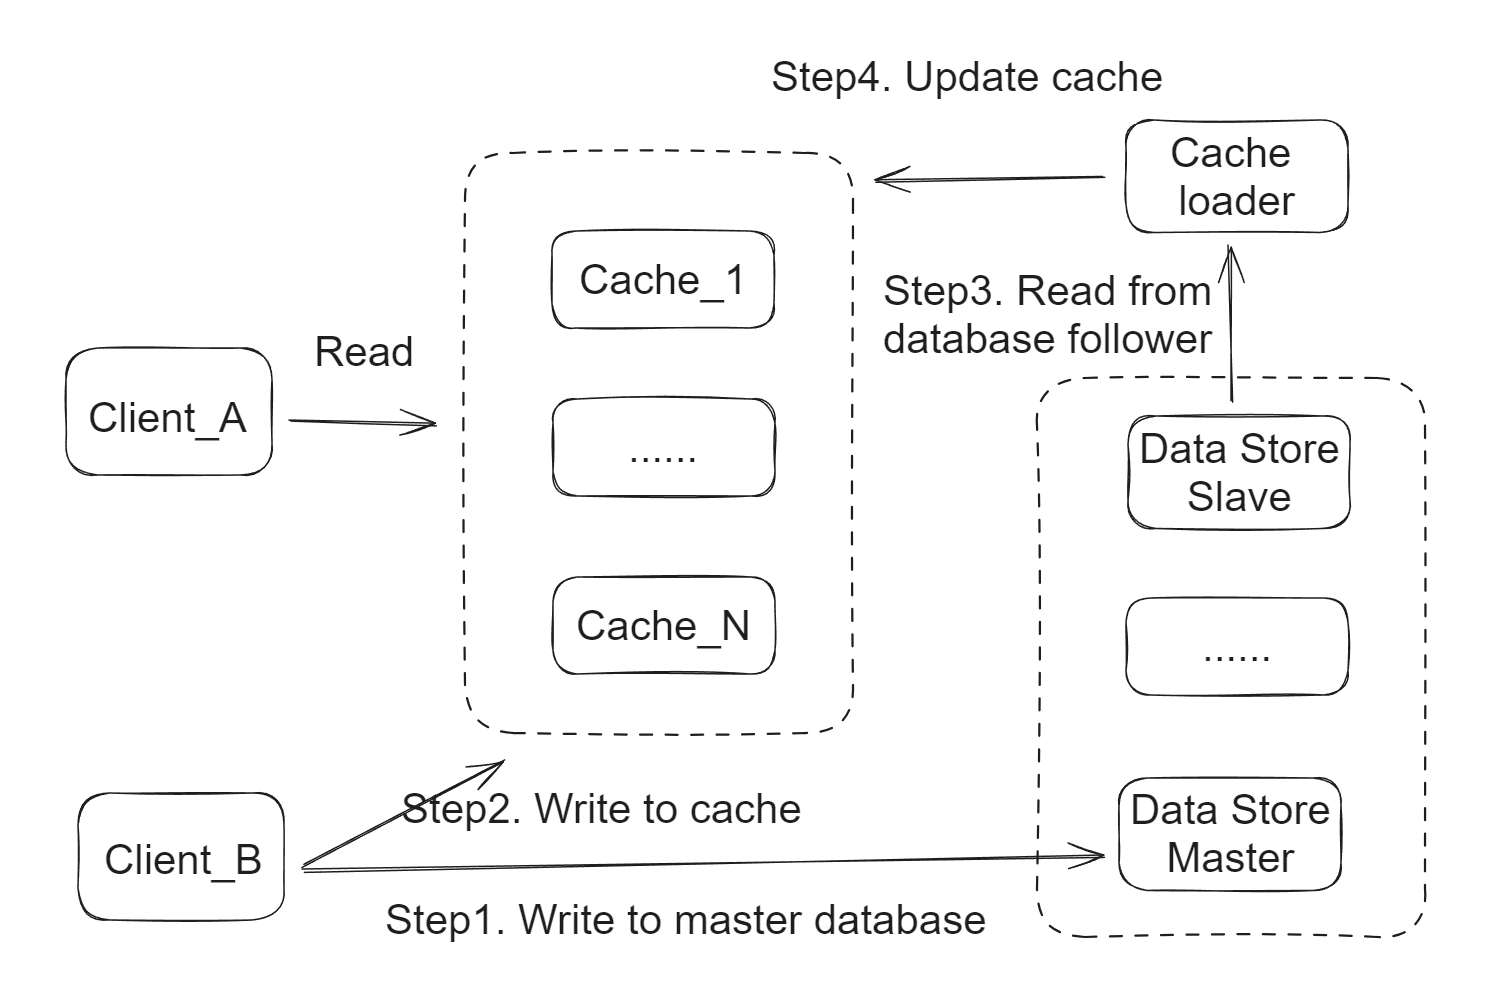
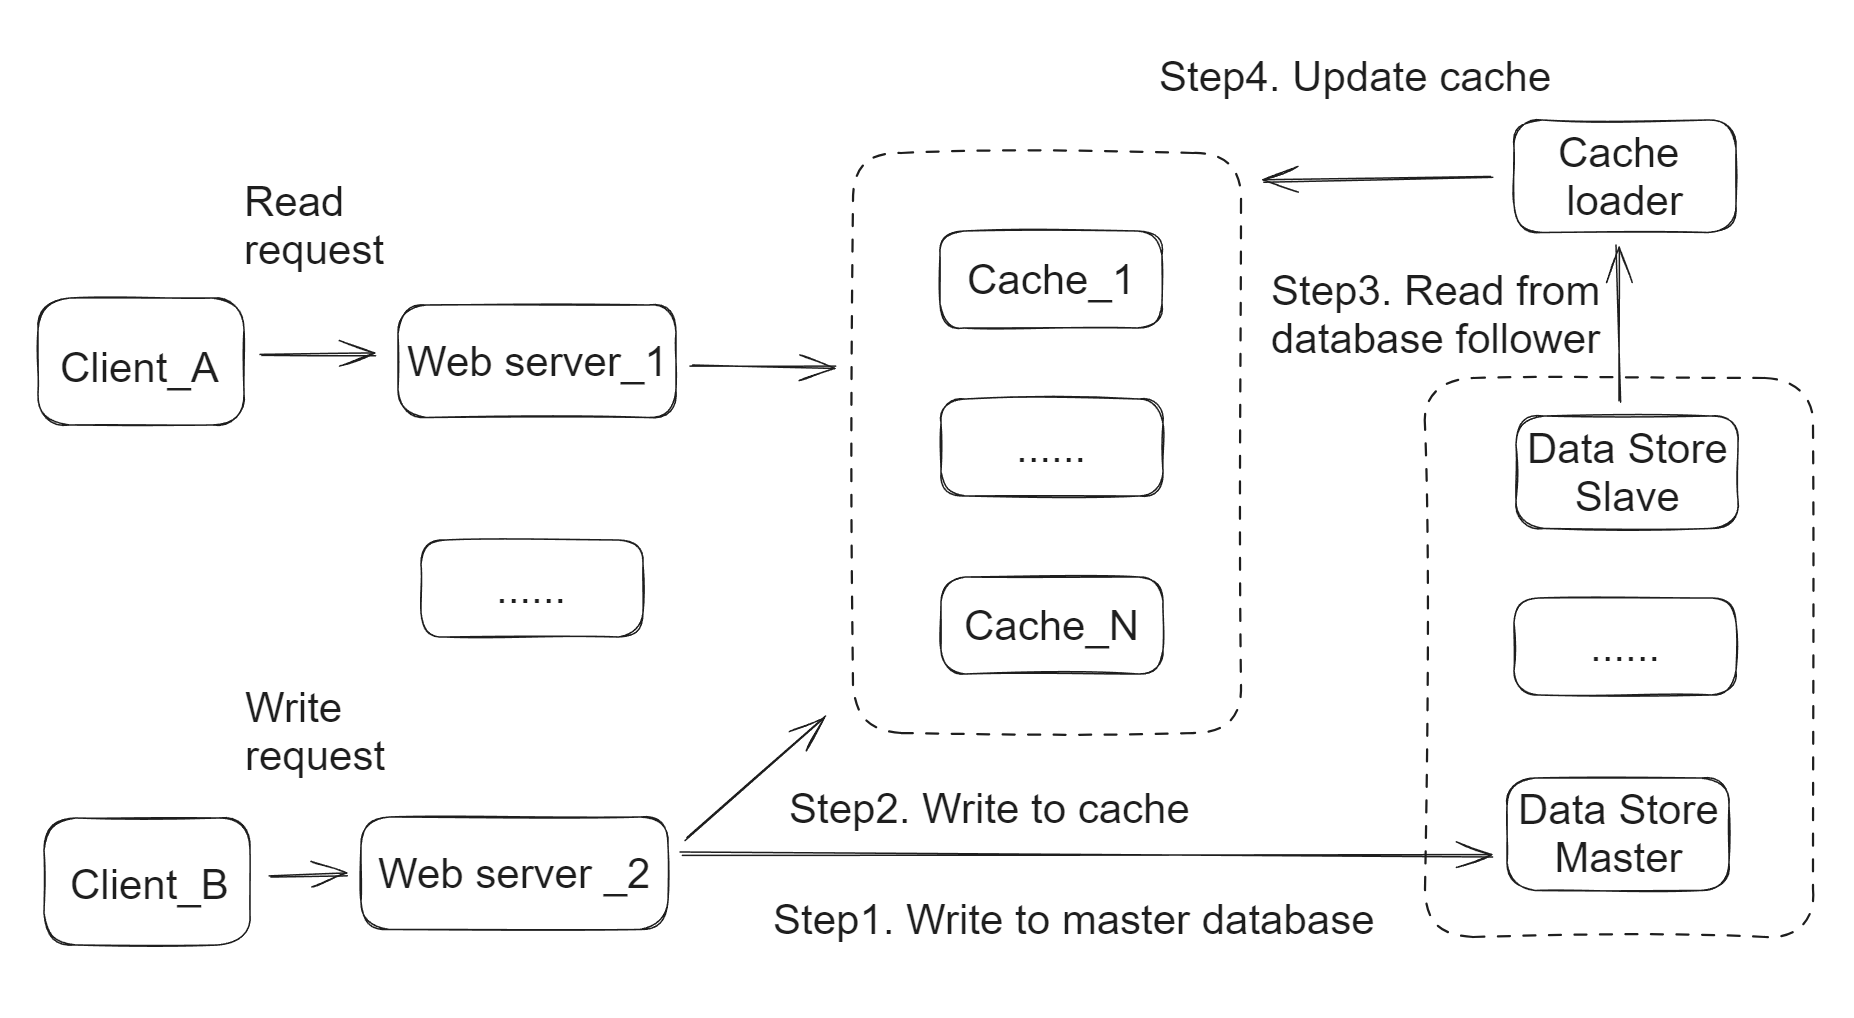
refactor

diff --git a/scenario_locationBased/naiveApproaches.md b/scenario_locationBased/naiveApproaches.md
@@ -1,58 +1,38 @@
-- [Approach 1: Cache locations and search in memory](#approach-1-cache-locations-and-search-in-memory)
-  - [Flowchart](#flowchart)
-- [Approach 2: Create partitions in memory \& search partition wise](#approach-2-create-partitions-in-memory--search-partition-wise)
-  - [Flowchart](#flowchart-1)
-    - [Static partition managed by metadata registry](#static-partition-managed-by-metadata-registry)
-    - [Get the city name](#get-the-city-name)
-    - [Audit support](#audit-support)
-  - [Data modeling](#data-modeling)
-    - [City-based sharding](#city-based-sharding)
-    - [Use logical shard to solve small / big city problems](#use-logical-shard-to-solve-small--big-city-problems)
-    - [Schema example](#schema-example)
-    - [Cons of city based partition](#cons-of-city-based-partition)
+- [Single machine solution](#single-machine-solution)
+- [Distributed solution](#distributed-solution)
+  - [Locate partition](#locate-partition)
+    - [Example](#example)
+  - [Get the city name](#get-the-city-name)
+    - [Cons: City border problem](#cons-city-border-problem)
 
-# Approach 1: Cache locations and search in memory
-* Assumption: Suppose the total number of locations could suit inside a single machine. 
-
-## Flowchart
-![](../.gitbook/assets/uber_inmemory-cache.png.png)
-
+# Single machine solution
+* Assumption: If the total number of locations fits in memory of a single machine 
 * Write path
-  1. Client_B will write to master database 
+  1. Client_B request will write to master database through web servers. 
   2. Client_B will write to cache. This needs to happen after step1 because database is the source of truth.
   3. Every few minutes, cache loader will load entries after the last timestamp/id from the database follower. 
      * Cache loader reads the data from a “Follower machine” to avoid adding overhead to master database.  
   4. Cache loader will update the cache entries if needed. 
      * In case the data is already present there, depending on the timestamp of the in-memory object, the loader can decide whether to update the data or skip it — if the database has more updated data / higher timestamp, update the data in cache. 
 
-# Approach 2: Create partitions in memory & search partition wise
+![](../.gitbook/assets/uber_inmemory-cache.png)
 
-## Flowchart
+# Distributed solution
+* Write path
+  1. Write request first comes to the metadata registry. using the IP address of the request’s origin, we determine in which city the delivery agent exactly is or from where the customer request came. 
+  2. Using the resolved city, shard id is identified, then using shard id, 
+  3. index server is identified. 
+  4. Finally the request is directed towards that particular index server. So we don’t need to query all the cache / index server any more. Note that, in this architecture, neither read nor write requests talk to the data store directly, this reduces the API latency even further.
 
 ![](../.gitbook/assets/geosearch_partition_InMemory.png)
 
-### Static partition managed by metadata registry
-* Both the read & write request first talk to the metadata registry, using the IP address of the request’s origin, we determine in which city the delivery agent exactly is or from where the customer request came. Using the resolved city, shard id is identified, then using shard id, index server is identified. Finally the request is directed towards that particular index server. So we don’t need to query all the cache / index server any more. Note that, in this architecture, neither read nor write requests talk to the data store directly, this reduces the API latency even further.
-* Managing static partition in a central registry is a simpler way of managing partitions. In case we see one of the cache server is getting hot, we can move some of the logical shards from that machine to other machine or completely allocate a new machine itself. Also since it’s not automated & human intervention is required to manipulate or move partitions, usually chances of operational mistake is very less. Although there is a trade off here — with increasing growth or insane growth, when there are thousands of physical machines, managing static partition can become a pain, hence automated partitioning scheme should be explored & tools to be developed when those use cases arrive.
+## Locate partition
 
-### Get the city name
-* Google Maps provides reverse Geo-Coding API to identify current city & related location information. The API can be integrated both in Android & iOS Apps.
+* IP address of incoming request => City => ShardId => Cache Index Server
+* Each city is divided into several logical shards. 
 
-### Audit support
-* Also in the above architecture, we are putting the data to a queue from which a consumer picks up those location data & updates the database with proper metadata like timestamp or order id etc. This is done only for tracking the history & tracing the delivery agent’s journey in case it’s required, it’s a secondary part to our discussion though.
-
-## Data modeling
-### City-based sharding
-* We have introduced a location data sharding scheme based on city name (It could be city id as well in case there is a risk of city name collision). We divide location data into several logical shard. A server or physical machine can contain many logical shards. A logical shard contains all locations data belonging to a particular city only. 
-* Motivation:
-  * Well, there is no standard partitioning that can be implemented for different use cases, it depends on what kind of application we are talking about & how the data access pattern looks like.
-  * Let’s consider a hyper-local food delivery application. We need to assign delivery agents efficiently to customers so that orders can be dispatched in short time. There can be different kind of parameters which will determine whether a delivery agent can be assigned to an order e.g; how far the agent is from the restaurant & customer location, is he in transit & can take another order on his way and many others. But before applying all these filters, we need to fetch a limited number of delivery agents. Now most of the delivery agents will be bound to a city if not a specific locality. A delivery agent from Bangalore won’t usually deliver any order to a customer residing at Hyderabad. Also there will be finite number of agents in a city and possibly that number can hardly touch a maximum of few thousands only. And searching through these few thousands locations for a batch of orders ( orders from a locality or city can be batched & dispatched together for better system performance ) can be a good idea. So, with this theory, we can use city name as the partition key for a hyper local system.
-
-### Use logical shard to solve small / big city problems
-* In this allocation strategy, it might happen that a big city contains lots of locations whereas a smaller city contains less number of locations. In order to manage these shards & balance the load evenly across all possible cache servers, we are using a central metadata registry. The metadata registry contains mapping from city name to logical shard id, logical shard id to in-memory index server id mapping ( using service discovery mechanism, we can get the IP address of a server using the server id, the discussion is out of scope of this article ), something like below:
-
-### Schema example
-```
+### Example
+``` json
 City to shard mapping:
 ----------------------
 city           shard_id
@@ -65,7 +45,7 @@ San Francisco    834
 
 Shard to Physical server mapping
 --------------------------------
-shard_id       index_server
+shard_id       index_cache_server
 ----------------------------
 101             index-1
 103             index-2
@@ -89,6 +69,9 @@ A shard (say index-1) content (location object) looks like below:
  ]
 ```
 
-### Cons of city based partition
+## Get the city name
+* Google Maps provides reverse Geo-Coding API to identify current city & related location information. The API can be integrated both in Android & iOS Apps.
+
+### Cons: City border problem
 * City border problem: It’s quite possible that one of our delivery agents is currently located near the boarder of two cities — say he is at city A, an order comes from a neighbour city B & the agent’s distance from the customer at city B is quite less, but unfortunately we can’t dispatch the agent as he is not in city B. So at times, city based partitioning may not be optimal for all use cases. Also with growing demand from a city for a particular occasion like Christmas or New Year, a city based shard can become very hot. This strategy might work for hyper local systems but not for a system like Uber due to its very high scale.
 * One possible solution: Use more complex sharding keys. For example, Uber uses City + Product sharding. Uber employs similar partitioning strategy but it’s not only on city/region — it’s region + product type (pool, XL or Go whatever). Uber has geographically distributed products across countries. So partitioning by a combination of product type & city works fine for them. To search for available Uber pool cabs in a region, you just go to the pool bucket for that region & retrieve all the cabs currently available there & likewise for all other use cases.
